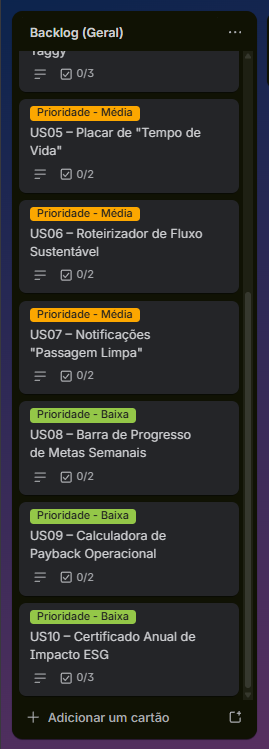
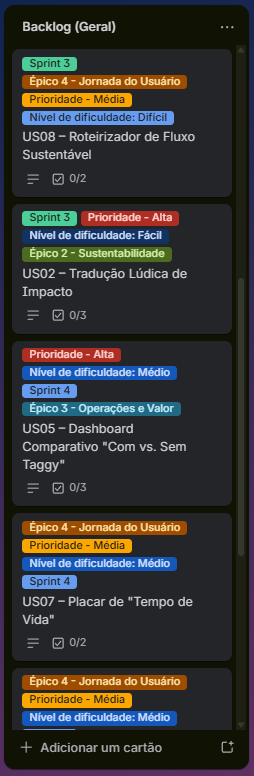
docs: add new image to README for Trello backlog visualization

diff --git a/README.md b/README.md
@@ -75,6 +75,9 @@ _Backlog no Trello:_
     <td align="center" valign="top" width="50%">
       <img src="docs/images/backlog-02.png" alt="Backlog no Trello – visão 2 do quadro" width="440" />
     </td>
+    <td align="center" valign="top" width="50%">
+      <img src="docs/images/backlog-03.png" alt="Backlog no Trello – visão 3 do quadro" width="440" />
+    </td>
   </tr>
 </table>
 